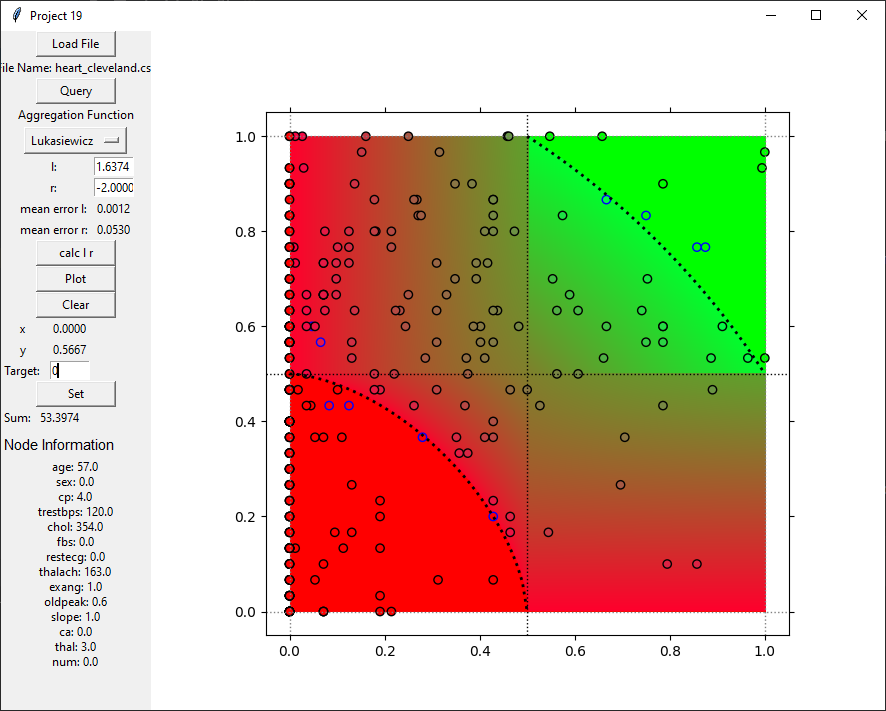
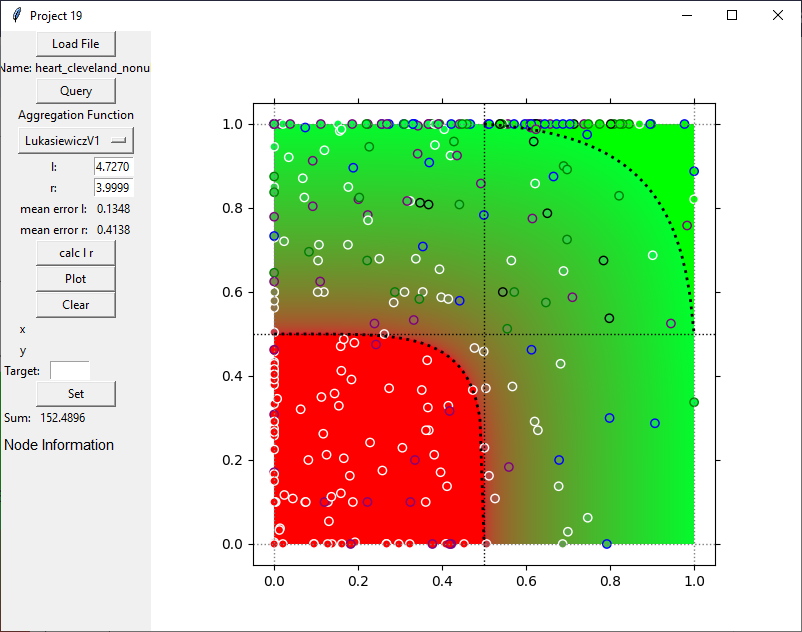
added images for readme.md

diff --git a/view/View.py b/view/View.py
@@ -55,7 +55,7 @@ class View:
         self.aggregationPopupValue = tk.StringVar(self.containerInput)
         # Dictionary with options
         choices = {'Lukasiewicz', 'LukasiewiczV1', 'MinMax', 'TnormTconormGeometric', 'TnormTconormArithmetic'}
-        self.aggregationPopupValue.set('Lukasiewicz')  # set the default option
+        self.aggregationPopupValue.set('LukasiewiczV1')  # set the default option
         self.aggregationPopup = tk.OptionMenu(self.containerInput, self.aggregationPopupValue, *choices)
         self.txtAggregationLabel = tk.Label(master=self.containerInput, text="Aggregation Function")
         self.txtAggregationLabel.pack()
